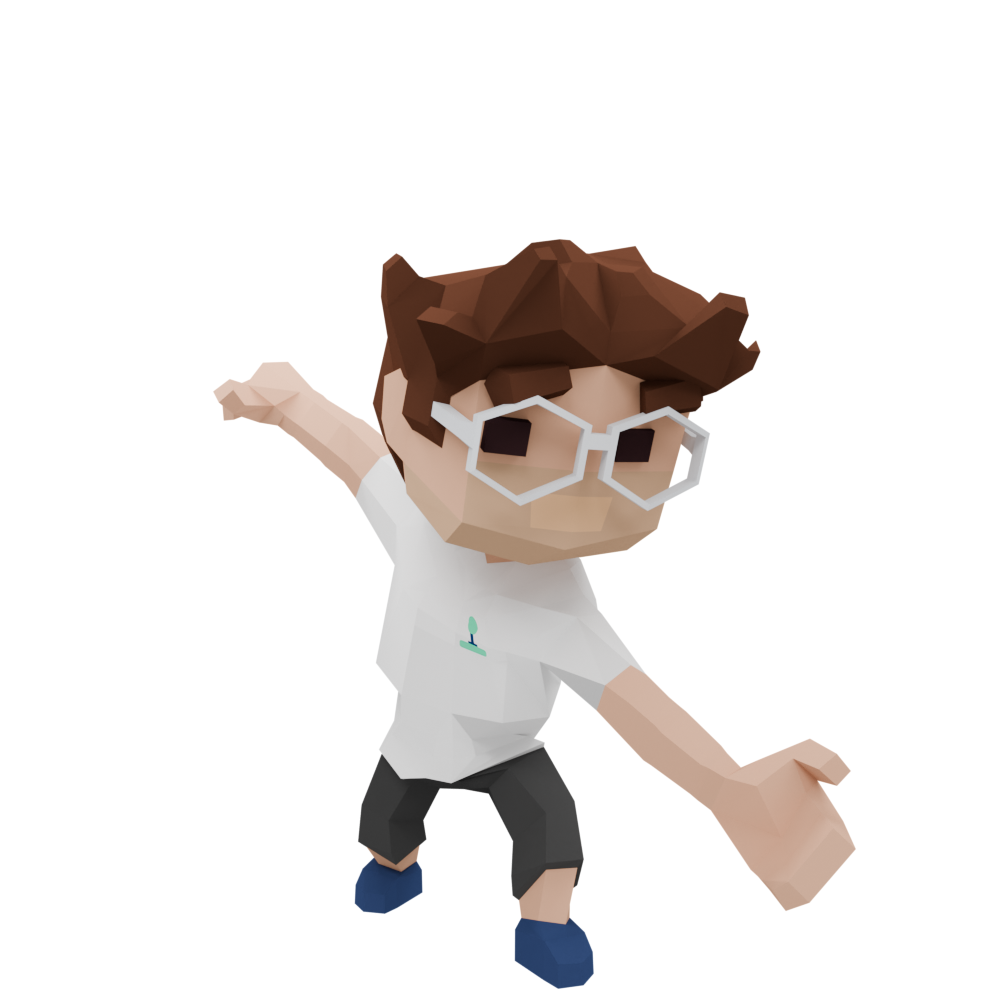
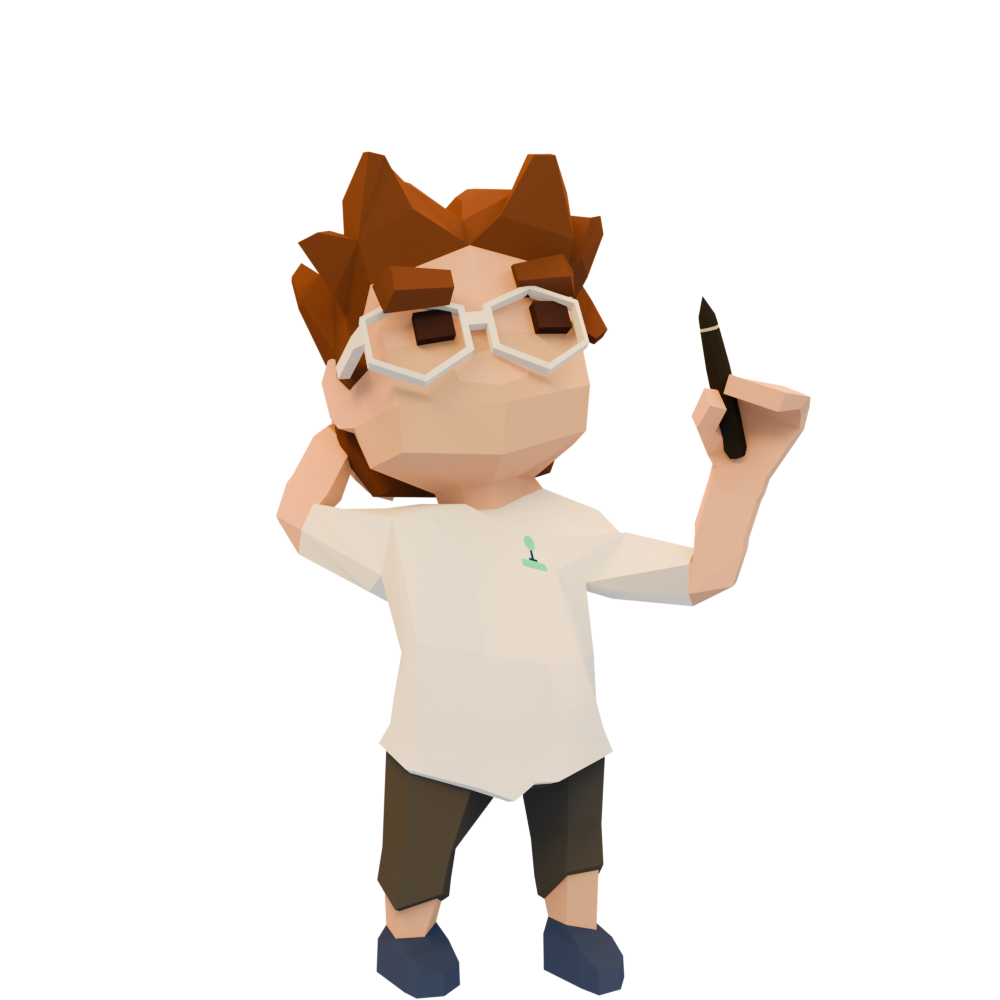
poses + recolor

Changed region(s): [[0.217, 0.155, 0.868, 1.0]]

diff --git a/about/index.html b/about/index.html
@@ -59,8 +59,8 @@
                         <div class="member-img" id="member-maurice">
                             <div class="member-hover-container" data-member="maurice"></div>
                             <img class="member default" data-member="maurice" src="../img/team/maurice_cutout.png" alt="">
-                            <img class="member hover" data-member="maurice" src="../img/team/maurice_cutout.png" alt="">
-                            <img class="member active" data-member="maurice" src="../img/team/maurice_cutout.png" alt="">
+                            <img class="member hover" data-member="maurice" src="../img/team/maurice_hover.png" alt="">
+                            <img class="member active" data-member="maurice" src="../img/team/maurice_click.png" alt="">
                         </div>
                     </div>
                 </div>

diff --git a/styles/about.css b/styles/about.css
@@ -1,4 +1,6 @@
-
+body {
+    scroll-behavior: smooth;
+}
 
 h2 {
     text-align: center;
@@ -94,6 +96,7 @@ img.member.default.highlight {
 #member-jonas{
     margin-right: -50%;
     margin-left: 50%;
+    top: -5%;
 }
 
 #member-lukas{
@@ -110,6 +113,7 @@ img.member.default.highlight {
 #member-maurice{
     margin-right: 50%;
     margin-left: -50%;
+   
 }
 .name span {
     display: block;
